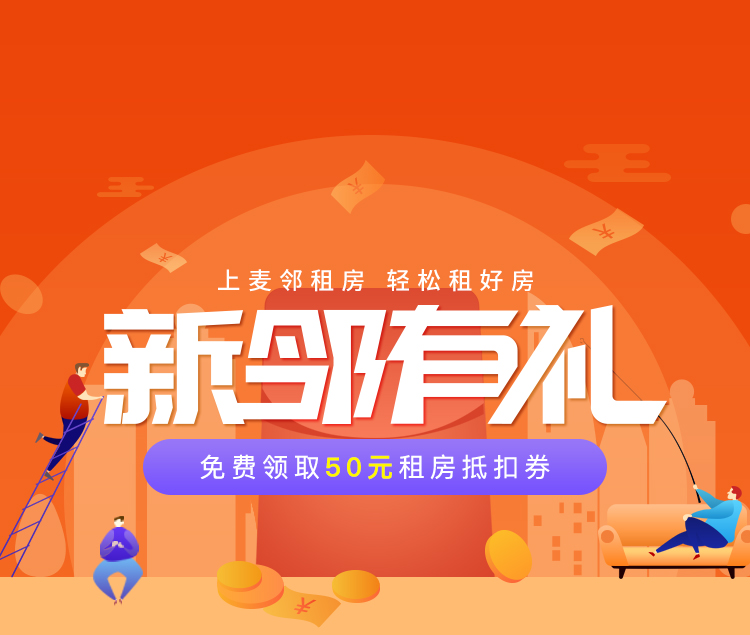
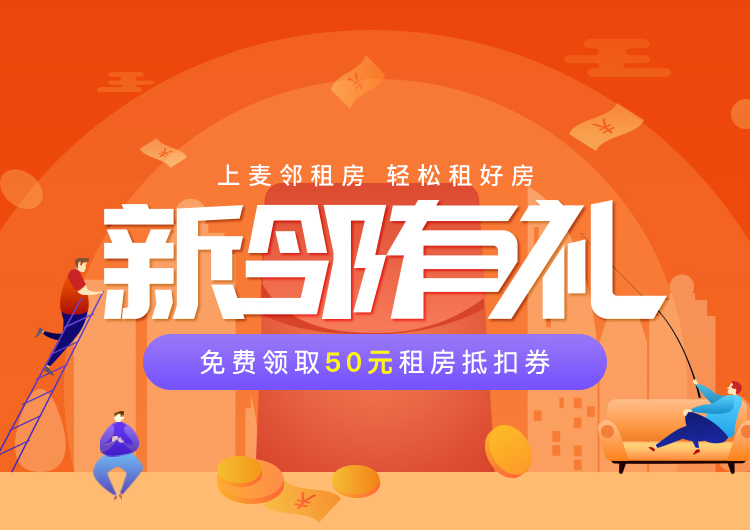
### *柏林*

diff --git a/act_ticket-coupon/src/views/activePage.vue b/act_ticket-coupon/src/views/activePage.vue
@@ -81,6 +81,8 @@
                 </p>
               </section>
             </article>
+            <div class="cloud_item--left"></div>
+            <div class="cloud_item--right"></div>
           </section>
           <!-- APP跳转 -->
           <section class="active_vrWrapper" @click.stop="goVrRoomPage">
@@ -93,6 +95,7 @@
                 </div>
               </div>
               <div class="superposition"></div>
+              <div class="image_flower"></div>
             </div>
             <div class="info">
               <img src="../assets/vr.png" />
@@ -531,20 +534,27 @@ export default {
     // 前往vr看房页面
     goVrRoomPage () {
       let bridgeParam = {
-        libCode: 5013
+        libCode: 5018
       }
-      if (this.app_andriod === true) {
-        try {
-          window.SetupJsCommunication.jumpToNativePages(JSON.stringify(bridgeParam))
-        } catch (error) {
-          this.$toast('fail', 'Andriod调用失败')
-          console.log(error)
+      if (this.lastVersion > 357) {
+        if (this.app_andriod === true) {
+          try {
+            window.SetupJsCommunication.jumpToNativePages(JSON.stringify(bridgeParam))
+          } catch (error) {
+            this.$toast('fail', 'Andriod调用失败')
+            console.log(error)
+          }
+        } else if (this.app_ios === true) {
+          bridgeParam = {
+            libCode: 5018,
+            params: {
+              type: 3
+            }
+          }
+          Bridge.callHandler('jumpToNativePages', bridgeParam, function responseCallback (responseData) {})
         }
-      } else if (this.app_ios === true) {
-        Bridge.callHandler('jumpToNativePages', bridgeParam, function responseCallback (responseData) {})
       } else {
-        // this.callupApp()
-        window.location.href = `${process.env.WEBSITE_LINK}appGuides/index.html`
+        window.location.href = `${process.env.WEBSITE_LINK}house-list/index.html`
       }
     },
 
@@ -748,6 +758,7 @@ export default {
     padding: 20px;
   }
   .active_rules {
+    position: relative;
     margin-top: 60px;
     color: #fff;
     article {
@@ -805,6 +816,16 @@ export default {
       width: 606px;
       height: 224px;
     }
+    .image_flower {
+      position: absolute;
+      right: 10px;
+      bottom: -10px;
+      width: 100px;
+      height: 150px;
+      background: url('../assets/flower.png') no-repeat center center;
+      background-size: cover;
+      z-index: 3;
+    }
     .info {
       cursor: pointer;
       position: absolute;
@@ -861,6 +882,24 @@ export default {
     height: 90px;
     line-height: 90px;
   }
+}
+
+.cloud_item--left {
+  position: absolute;
+  left: 40px;
+  background: url('../assets/cloud_left.png') no-repeat center center;
+  background-size: cover;
+  width: 60px;
+  height: 25px;
+}
+.cloud_item--right {
+  position: absolute;
+  right: 10px;
+  top: -50px;
+  background: url('../assets/cloud_right.png') no-repeat center center;
+  background-size: cover;
+  width: 155px;
+  height: 55px;
 }
 
 </style>
